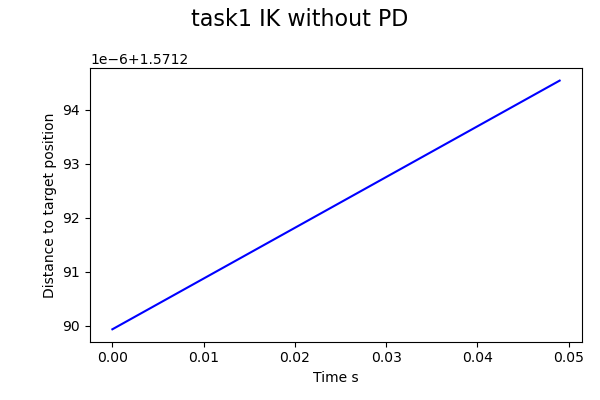
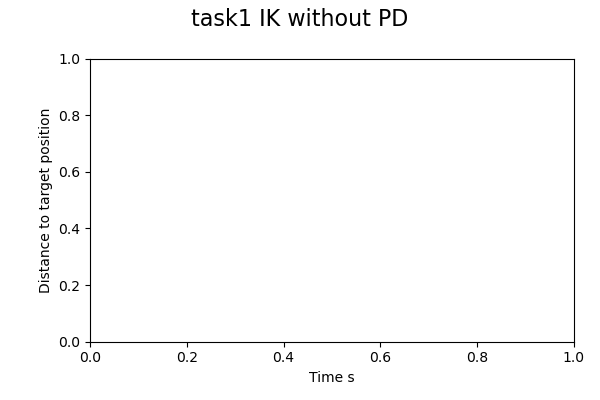
task1 - graoh

diff --git a/task2/task2.py b/task2/task2.py
@@ -1,0 +1,88 @@
+import subprocess, math, time, sys, os, numpy as np
+import matplotlib.pyplot as plt
+import pybullet as bullet_simulation
+import pybullet_data
+
+# setup paths and load the core
+abs_path = os.path.dirname(os.path.realpath(__file__))
+root_path = abs_path + '/..'
+core_path = root_path + '/core'
+sys.path.append(core_path)
+from Pybullet_Simulation import Simulation #type: ignore
+
+# specific settings for this task
+taskId = 1
+
+try:
+    if sys.argv[1] == 'nogui':
+        gui = False
+    else:
+        gui = True
+except:
+    gui = True
+
+
+### You may want to change the code from here
+pybulletConfigs = {
+    "simulation": bullet_simulation,
+    "pybullet_extra_data": pybullet_data,
+    "gui": gui,
+    "panels": False,
+    "realTime": False,
+    "controlFrequency": 1000,
+    "updateFrequency": 250,
+    "gravity": -9.81,
+    "gravityCompensation": .8,
+    "floor": True,
+    "cameraSettings": (1.07, 90.0, -52.8, (0.07, 0.01, 0.76))
+}
+robotConfigs = {
+    "robotPath": core_path + "/nextagea_description/urdf/NextageaOpen.urdf",
+    "robotPIDConfigs": core_path + "/PD_gains.yaml",
+    "robotStartPos": [0, 0, 0.85],
+    "robotStartOrientation": [0, 0, 0, 1],
+    "fixedBase": True,
+    "colored": False
+}
+sim = Simulation(pybulletConfigs, robotConfigs)
+
+# This is an example target (angular) position for the joint LARM_JOINT2
+task2_jointName = "LARM_JOINT2"
+task2_targetPosition = np.deg2rad(-45)  # joint (angular) position in radians
+task2_targetVelocity = 0.0  # joint (angular) velocity in radians per second
+verbose = False
+task2_figure_name = "task2_PD_response.png"
+task2_savefig = False
+### to here
+
+
+pltTime, pltTarget, pltTorque, pltTorqueTime, pltPosition, pltVelocity = \
+    sim.moveJoint(
+        task2_jointName, task2_targetPosition, task2_targetVelocity, verbose)
+
+
+# modify the code in below if needed
+fig = plt.figure(figsize=(6, 8))
+
+plt.subplot(311)
+plt.plot(pltTime, pltPosition, color='blue')
+plt.plot(pltTime, pltTarget, color='magenta')
+plt.ylabel("Theta rads")
+
+plt.subplot(312)
+plt.plot(pltTime, pltPosition, color='blue')
+plt.plot(pltTime, pltVelocity, color='lightblue')
+plt.ylabel("Velocity rads/s")
+
+plt.subplot(313)
+plt.plot(pltTorqueTime, pltTorque, color='orange')
+plt.xlabel("Time s")
+plt.ylabel("Torque N")
+
+plt.suptitle("Task2.2 Response of the controller", size=16)
+plt.tight_layout()
+plt.subplots_adjust(left=0.15)
+
+if task2_savefig:
+    fig.savefig(task2_figure_name)
+plt.show()

diff --git a/core/Pybullet_Simulation.py b/core/Pybullet_Simulation.py
@@ -57,7 +57,7 @@ class Simulation(Simulation_base):
         'base_to_dummy': np.zeros(3),  # Virtual joint
         'base_to_waist': np.zeros(3),  # Fixed joint
         # COMPLETE: modify from here
-        'CHEST_JOINT0': np.array([0,0,0.267]),
+        'CHEST_JOINT0': np.array([0,0,1.117]),
         'HEAD_JOINT0': np.array([0,0,0.302]),
         'HEAD_JOINT1': np.array([0,0,0.066]),
         'LARM_JOINT0': np.array([0.04,0.135,0.1015]),
@@ -225,12 +225,12 @@ class Simulation(Simulation_base):
         traj = list(); traj.append([0]*len(joints))
     
         for n in range(1,interpolationSteps):
+            print("IK: ",n)
             dy = TargetPositions[n] - TargetPositions[n-1]
             jacobian = self.jacobianMatrix(endEffector)
             dq = np.matmul(np.linalg.pinv(jacobian), dy)
 
             angles = list(np.arcsin(np.sin( np.array(traj[n-1])+dq )))
-            print(angles)
             traj.append(angles)
 
         return traj
@@ -256,14 +256,14 @@ class Simulation(Simulation_base):
         angles = self.inverseKinematics(endEffector, targetPosition, orientation, maxIter, threshold)
         
         for n in range(0, maxIter):
+            print("PD: ",n)
             jointStates = dict(zip(joints, angles[n]))
             for j in joints: self.jointTargetPos[j] = jointStates[j]
-            print("tick " + str(n))
-            print()
             self.tick_without_PD()
             pltTime.append(n*self.dt)
-            pltDistance.append( np.linalg.norm(targetPosition - self.getJointPosition[endEffector]) )
+            pltDistance.append(np.linalg.norm(self.getJointPosition(endEffector) - targetPosition))
         
+        return pltTime, pltDistance
 
     def tick_without_PD(self):
         """Ticks one step of simulation without PD control. """
@@ -271,11 +271,9 @@ class Simulation(Simulation_base):
         # Iterate through all joints and update joint states.
         # For each joint, you can use the shared variable self.jointTargetPos.
         
-        #for j in range(0, len(self.jointTargetPos)):
-            #self.p.resetJointState(self.robot, self.jointIds[j], self.jointTargetPos[j])
-        
-        self.setJoints(self.jointTargetPos)
-
+        for j in list(self.jointTargetPos):
+            self.p.resetJointState(self.robot, self.jointIds[j], self.jointTargetPos[j])
+       
         self.p.stepSimulation()
         self.drawDebugLines()
         time.sleep(self.dt)

diff --git a/task1/task1.py b/task1/task1.py
@@ -61,9 +61,9 @@ endEffector = "LARM_JOINT5"
 targetPosition = np.array([0.37, 0.23, 1.06385])  # x,y,z coordinates in world frame
 
 # Example code. Feel free to modify
-pltTime, pltEFPosition = sim.move_without_PD(endEffector, targetPosition, speed=0.01, orientation=None, threshold=1e-3, maxIter=50, debug=False, verbose=False)
+pltTime, pltEFPosition = sim.move_without_PD(endEffector, targetPosition, speed=0.01, orientation=None, threshold=1e-3, maxIter=10, debug=False, verbose=False)
 
-sim.inverseKinematics(endEffector, targetPosition, 0, 10, 0)
+#sim.inverseKinematics(endEffector, targetPosition, 0, 10, 0)
 
 # Now plot some graphs
 task1_figure_name = "task1_kinematics.png"
@@ -71,7 +71,7 @@ task1_savefig = True
 # ...
 fig = plt.figure(figsize=(6, 4))
 
-plt.plot(pltTime, pltEFPosition, color='blue')
+#plt.plot(pltTime, pltEFPosition, color='blue')
 plt.xlabel("Time s")
 plt.ylabel("Distance to target position")
 
